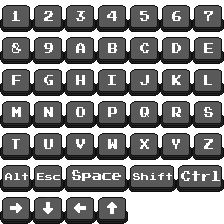
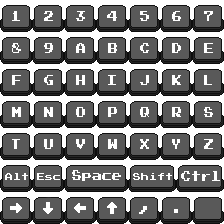
fix: add comma and period keys to KeysExtended.png and include missing keys in help modal

Changed region(s): [[0.5625, 0.875, 1.0, 1.0]]

diff --git a/public/index.html b/public/index.html
@@ -86,15 +86,21 @@
                             <br><br>
                             <img src="../assets/img/transparent_32x32.png" alt="N-Key" class="key key-small" style="background-position: -32px calc(3 * -32px);"><p>  Mute Video</p>
                             <br><br>
-                            <img src="../assets/img/transparent_32x32.png" alt="E-Key" class="key key-small" style="background-position: calc(6 * -32px) calc(-32px);"><p>  Interact with Object</p>
+                            <img src="../assets/img/transparent_32x32.png" alt="Comma-Key" class="key key-small" style="background-position: calc(4 * -32px) calc(6 * -32px);"><p>  Share Screen</p>
+                            <br><hr>
+                            <img src="../assets/img/transparent_32x32.png" alt="Q-Key" class="key key-small" style="background-position: calc(4 * -32px) calc(3 * -32px);"><p>  Open Settings</p>
+                            <br><br>
+                            <img src="../assets/img/transparent_32x32.png" alt="H-Key" class="key key-small" style="background-position: calc(2 * -32px) calc(2 * -32px);"><p>  Open Help</p>
                             <br><hr>
                             <img src="../assets/img/transparent_32x32.png" alt="C-Key" class="key key-small" style="background-position: calc(4 * -32px) calc(-32px);"><p>  Cycle Character Skin</p>
                             <br><br>
                             <img src="../assets/img/transparent_32x32.png" alt="R-Key" class="key key-small" style="background-position: calc(5 * -32px) calc(3 * -32px);"><p>  Change Username</p>
                             <br><br>
                             <img src="../assets/img/transparent_32x32.png" alt="U-Key" class="key key-small" style="background-position: calc(-32px) calc(4 * -32px);"><p>  Show Player List</p>
-                            <br><br>
+                            <br><hr>
                             <img src="../assets/img/transparent_32x32.png" alt="F-Key" class="key key-small" style="background-position: 0 calc(2 * -32px);"><p>  Pay Respect</p>
+                            <br><br>
+                            <img src="../assets/img/transparent_32x32.png" alt="E-Key" class="key key-small" style="background-position: calc(6 * -32px) calc(-32px);"><p>  Interact with Object</p>
                             <br><hr>
                             <p>Press <strong>E</strong> to interact with Objects like:</p>
                             <br>
